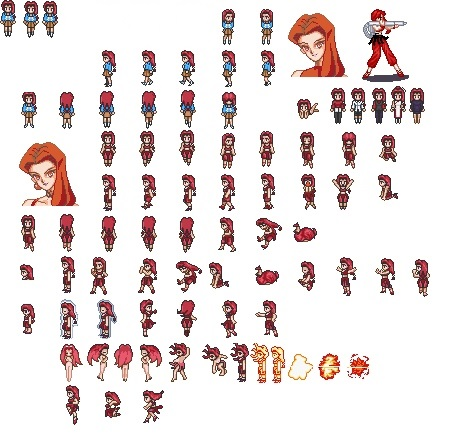
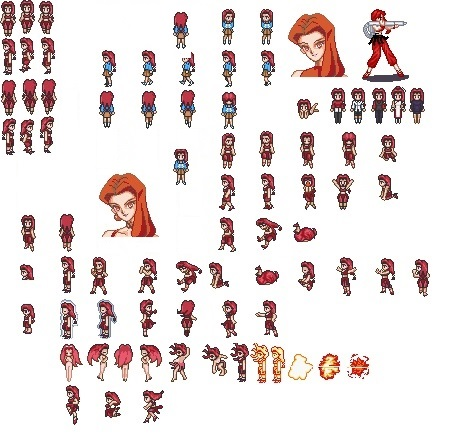
new chan

Changed region(s): [[0.0, 0.0, 0.1854, 0.4685], [0.2163, 0.2928, 0.4327, 0.5856], [0.3709, 0.0293, 0.4327, 0.1464]]

diff --git a/Class.cpp b/Class.cpp
@@ -52,7 +52,12 @@ using namespace sf;
     //проходимся по элементам карты
       for (int j = x / 32; j<(x + w) / 32; j++) 
       {
-      
+
+        if (TileMap[i][j] == '5'){
+          TileMap[i][j] =' ';
+         std:: cout<< 12<< std::endl;
+        }
+
          if (TileMap[i][j] == '1')//если элемент - тайлик земли 
          { 
            if (Dy > 0) 
@@ -78,9 +83,7 @@ using namespace sf;
                        dx = 0.1; 
                         //Направление движения врага
                       }// с левым краем карты 
-					  if (TileMap[i][j] == '5') {
-						  TileMap[i][j] == ' ';
-					  }
+				
                     } 
                }
               };
@@ -114,30 +117,36 @@ using namespace sf;
 			  case right:
 			  {//состояние идти вправо
 				  dx = Speed;
+          dy =0;
            CurrentFrame += 0.005*time;
 				  if (CurrentFrame > 2) CurrentFrame -= 2;
-				 sprite.setTextureRect(IntRect(0, 80, 20, 40));
+				 sprite.setTextureRect(IntRect(21*int(CurrentFrame), 80, 20, 40));
 				  break;
 			  }
 			  case left:
 			  {//состояние идти влево
-				  dx = -Speed; CurrentFrame += 0.005*time;
+				  dx = -Speed; 
+          dy=0;
+          CurrentFrame += 0.005*time;
 				  if (CurrentFrame > 2) CurrentFrame -= 2;
-				  sprite.setTextureRect(IntRect(0, 40, 20, 40));
+				  sprite.setTextureRect(IntRect(21 * int(CurrentFrame), 40, 20, 40));
 				  break;
 			  } 
 			  case up: {
 				  //идти вверх 
 				  dy = -Speed; 
+          dx=0;
 				  CurrentFrame += 0.005*time;
 				  if (CurrentFrame > 2) CurrentFrame -= 2;
-				  sprite.setTextureRect(IntRect(0, 120, 20, 40));
+				  sprite.setTextureRect(IntRect(21 * int(CurrentFrame), 120, 20, 40));
 				  break; }
 			  case down:
 			  {//идти вниз 
-				  dy = Speed; CurrentFrame += 0.005*time;
+				  dy = Speed; 
+          dx=0;
+          CurrentFrame += 0.005*time;
 				  if (CurrentFrame > 2) CurrentFrame -= 2;
-				  sprite.setTextureRect(IntRect(0, 0, 20, 40));
+				  sprite.setTextureRect(IntRect(21*int(CurrentFrame), 0, 20, 40));
 				  break; }
 			  case stay: {
 				  //стоим 

diff --git a/method.cpp b/method.cpp
@@ -65,22 +65,22 @@ void Enemy::update(float time)
         dx = Speed; 
         CurrentFrame += 0.005*time; 
         if (CurrentFrame > 3) CurrentFrame -= 3;
-        sprite.setTextureRect(IntRect(100+(32 * int(CurrentFrame)), 48, 16,36));
+        sprite.setTextureRect(IntRect(17*int(CurrentFrame), 118, 16,36));
         break; } 
          case 1:{//состояние идти влево
           dx = -Speed; CurrentFrame += 0.005*time; 
           if (CurrentFrame > 3) CurrentFrame -= 3; 
-          sprite.setTextureRect(IntRect(100+(32 * int(CurrentFrame)), 96, 16,36));
+          sprite.setTextureRect(IntRect(17 * int(CurrentFrame), 38, 16,36));
           break; }
             case 2:{//идти вверх
               dy = -Speed; CurrentFrame += 0.005*time; 
               if (CurrentFrame > 3) CurrentFrame -= 3;
-              sprite.setTextureRect(IntRect(100+(32 * int(CurrentFrame)), 90, 16,36));
+              sprite.setTextureRect(IntRect(17 * int(CurrentFrame), 77, 16,36));
               break; } 
                case 3:{//идти вниз
                 dy = Speed; CurrentFrame += 0.005*time;
                 if (CurrentFrame > 3) CurrentFrame -= 3;
-                sprite.setTextureRect(IntRect(100+(32 * int(CurrentFrame)), 0, 16,36)); 
+                sprite.setTextureRect(IntRect(17*int(CurrentFrame), 0, 16,36)); 
                 break; } } 
                 x += dx*time; 
                   //движение по “X” 
